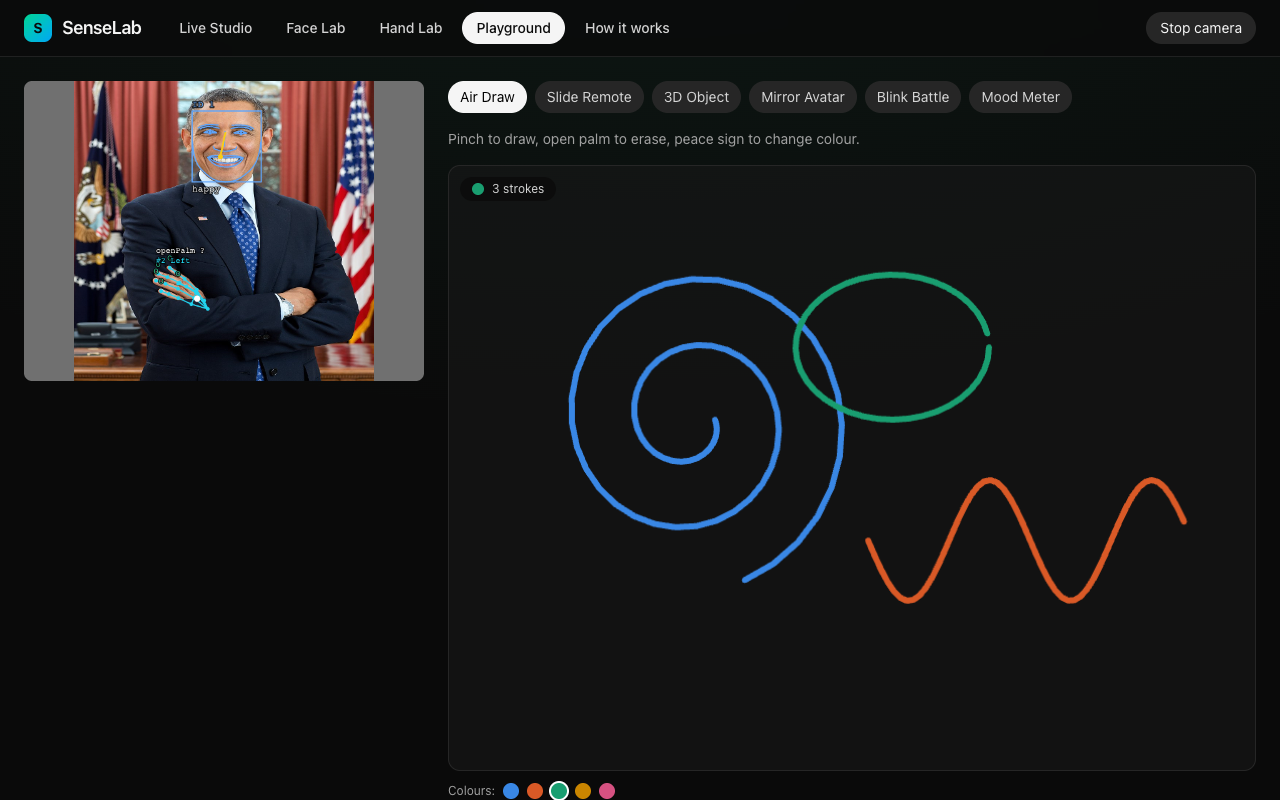
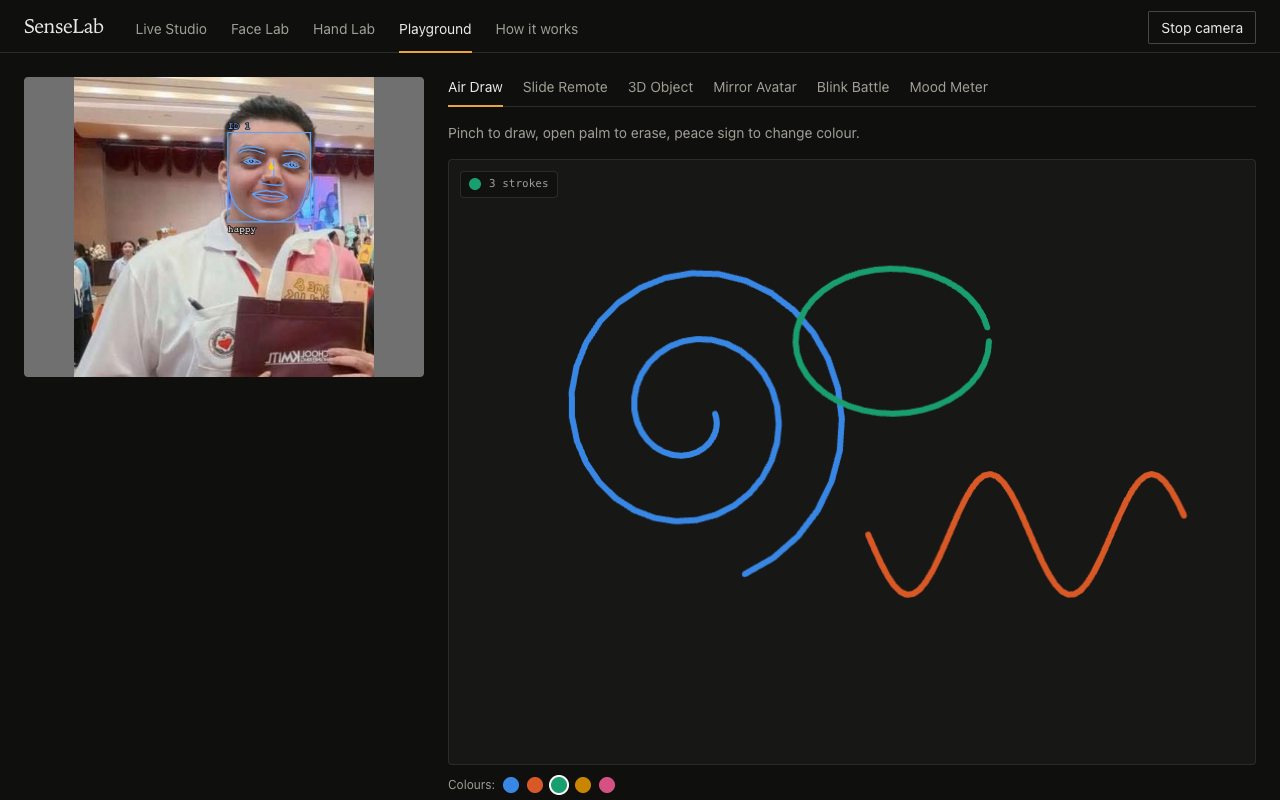
README: refresh screenshots and Slide Remote GIF for the new UI
- Regenerate Live Studio, Face Lab, Air Draw, 3D, Mood and Avatar images (fake camera shows the author's photo)
- Slide Remote GIF recorded with keyboard input; captions say so
- Drop the stale Hand Lab screenshot until there is an open-hand photo
- Add tests/e2e/docsAuthor.spec.ts to regenerate them

diff --git a/tests/e2e/docsAuthor.spec.ts b/tests/e2e/docsAuthor.spec.ts
@@ -1,0 +1,176 @@
+import { execFileSync } from 'node:child_process';
+import { test } from '@playwright/test';
+import type { Locator, Page } from '@playwright/test';
+import { call, installFakeCamera, waitModels } from './fakeCamera';
+
+// Makes most of the README images (see the README). Only runs when DOCS_DIR and FACE_FIXTURES are set:
+//   DOCS_DIR=docs FACE_FIXTURES=/folder-with-portrait.jpg CHROME=1 npx playwright test docsAuthor
+const out = process.env.DOCS_DIR;
+const dir = process.env.FACE_FIXTURES;
+test.skip(!out || !dir, 'set DOCS_DIR and FACE_FIXTURES');
+test.use({
+  viewport: { width: 1280, height: 800 },
+  video: { mode: 'on', size: { width: 1280, height: 800 } },
+});
+const shot = (page: Page, name: string) =>
+  page.screenshot({ path: `${out}/screenshots/${name}.png` });
+
+async function gif(
+  page: Page,
+  box: Locator,
+  startSec: number,
+  lengthSec: number,
+  out: string,
+  width: number,
+) {
+  const b = (await box.boundingBox())!;
+  await page.close();
+  const video = await page.video()!.path();
+  const even = (n: number) => Math.floor(n / 2) * 2;
+  const vf = `crop=${even(b.width)}:${even(b.height)}:${even(b.x)}:${even(b.y)},fps=10,scale=${width}:-1:flags=lanczos,split[a][b];[a]palettegen=max_colors=96[p];[b][p]paletteuse=dither=bayer:bayer_scale=4`;
+  execFileSync('ffmpeg', [
+    '-y',
+    '-loglevel',
+    'error',
+    '-ss',
+    String(startSec),
+    '-t',
+    String(lengthSec),
+    '-i',
+    video,
+    '-vf',
+    vf,
+    '-loop',
+    '0',
+    out,
+  ]);
+}
+
+test('screenshots', async ({ page }) => {
+  test.setTimeout(180_000);
+  await installFakeCamera(page, dir!, ['portrait']);
+  await page.goto('/');
+  await page.getByRole('checkbox').check();
+  await page.getByRole('button', { name: 'Start camera' }).click();
+  await call(page, '__show', 'portrait');
+  await waitModels(page);
+  await page.waitForTimeout(3500);
+  await shot(page, 'live-studio');
+  await page.getByRole('button', { name: 'Face Lab', exact: true }).click();
+  await page.waitForTimeout(1800);
+  await shot(page, 'face-lab');
+  await page.getByRole('button', { name: 'Playground', exact: true }).click();
+  await page.getByTestId('demo-tab-mirror-avatar').click();
+  await page.waitForTimeout(2500);
+  await shot(page, 'playground-avatar');
+  await page.getByTestId('demo-tab-air-draw').click();
+  const sim = (p?: unknown) =>
+    page.evaluate(
+      (x) =>
+        (
+          window as never as { __senselab: { simulate: (a?: unknown) => void } }
+        ).__senselab.simulate(x),
+      p,
+    );
+  const hand = (x: number, y: number, pinch: boolean) => ({
+    id: 1,
+    hand: 'Right',
+    gesture: null,
+    palmX: x * (4 / 3),
+    palmY: y,
+    palmLen: 0.18,
+    pinch: pinch ? { x: x * (4 / 3), y, dragging: true } : null,
+  });
+  const bus = (n: string) =>
+    page.evaluate(
+      (id) =>
+        (
+          window as never as { __senselab: { bus: { emit: (a: string, b: unknown) => void } } }
+        ).__senselab.bus.emit(`gesture:${id}`, {
+          id,
+          kind: 'start',
+          handId: 1,
+          hand: 'Right',
+          confidence: 1,
+          t: 0,
+        }),
+      n,
+    );
+  const stroke = async (pts: [number, number][]) => {
+    for (const [x, y] of pts) {
+      await sim({ hands: [hand(x, y, true)] });
+      await page.waitForTimeout(25);
+    }
+    await sim({ hands: [hand(0.5, 0.5, false)] });
+    await page.waitForTimeout(150);
+  };
+  await stroke(
+    Array.from({ length: 70 }, (_, i): [number, number] => [
+      0.3 + Math.cos(i / 5) * (0.03 + i * 0.0025),
+      0.42 + Math.sin(i / 5) * (0.04 + i * 0.0035),
+    ]),
+  );
+  await bus('peace');
+  await stroke(
+    Array.from({ length: 50 }, (_, i): [number, number] => [
+      0.52 + i * 0.008,
+      0.62 + Math.sin(i / 4) * 0.1,
+    ]),
+  );
+  await bus('peace');
+  await stroke(
+    Array.from({ length: 40 }, (_, i): [number, number] => [
+      0.55 + Math.cos(i / 6.4) * 0.12,
+      0.3 + Math.sin(i / 6.4) * 0.12,
+    ]),
+  );
+  await page.waitForTimeout(300);
+  await shot(page, 'playground-air-draw');
+  await sim();
+  await page.getByTestId('demo-tab-object-3d').click();
+  await page.waitForTimeout(800);
+  await sim({ twoHand: { engaged: true, scale: 1.6, deg: 40 } });
+  await page.waitForTimeout(1200);
+  await shot(page, 'playground-3d');
+  await sim();
+  await page.getByTestId('demo-tab-mood-meter').click();
+  await call(page, '__show', 'portrait');
+  await page.waitForTimeout(16_000);
+  await shot(page, 'playground-mood');
+});
+
+test('GIF: Slide Remote', async ({ page }) => {
+  test.setTimeout(120_000);
+  const born = Date.now();
+  await installFakeCamera(page, dir!, ['portrait']);
+  await page.goto('/');
+  await page.getByRole('checkbox').check();
+  await page.getByRole('button', { name: 'Start camera' }).click();
+  await page.getByRole('button', { name: 'Playground', exact: true }).click();
+  await page.getByTestId('demo-tab-slide-remote').click();
+  await page.waitForTimeout(1500);
+  const panel = page
+    .getByTestId('slide')
+    .locator('xpath=ancestor::div[contains(@class,"overflow-hidden")]')
+    .first();
+  const t0 = Date.now();
+  for (const [key, ms] of [
+    ['ArrowRight', 1300],
+    ['ArrowRight', 1300],
+    ['ArrowRight', 1300],
+    ['ArrowLeft', 1300],
+    ['l', 1500],
+  ] as const) {
+    await page.keyboard.press(key);
+    await page.waitForTimeout(ms);
+  }
+  const total = (Date.now() - t0) / 1000;
+  await gif(
+    page,
+    panel,
+    Math.max(0, (t0 - born) / 1000 - 0.4),
+    total + 0.6,
+    `${out}/slide-remote.gif`,
+    520,
+  );
+});

diff --git a/README.md b/README.md
@@ -53,16 +53,16 @@ Everything runs in a Web Worker in your browser, and the page never uploads a fr
 
 ## Screenshots and demos
 
-|                                                                                                                     |                                                                                                    |
-| ------------------------------------------------------------------------------------------------------------------- | -------------------------------------------------------------------------------------------------- |
-| ![Slide Remote driven by a real swipe](docs/slide-remote.gif)                                                       | ![Mirror Avatar copying expressions](docs/mirror-avatar.gif)                                       |
-| **Slide Remote.** A hand photo slides across a fake camera; the real hand model reports a swipe, the slide changes. | **Mirror Avatar.** The cartoon copies smile, blinks, brows and head turn from the real face model. |
-| ![Air Draw](docs/screenshots/playground-air-draw.png)                                                               | ![3D Object](docs/screenshots/playground-3d.png)                                                   |
-| **Air Draw** (strokes made with simulated pinch input: there is no pinch photo to feed the camera).                 | **3D Object** at 1.6x and 40 degrees, from simulated two-hand input.                               |
-| ![Face Lab](docs/screenshots/face-lab.png)                                                                          | ![Hand Lab](docs/screenshots/hand-lab.png)                                                         |
-| **Face Lab:** expression meter, blinks, gaze arrow, charts, registration.                                           | **Hand Lab:** finger states and a gesture timeline.                                                |
-| ![Mood Meter](docs/screenshots/playground-mood.png)                                                                 | ![How it works](docs/screenshots/how-it-works.png)                                                 |
-| **Mood Meter:** a live chart of everyone's expressions.                                                             | **How it works:** diagram and live timings.                                                        |
+|                                                                                                                           |                                                                                                    |
+| ------------------------------------------------------------------------------------------------------------------------- | -------------------------------------------------------------------------------------------------- |
+| ![Slide Remote changing slides](docs/slide-remote.gif)                                                                    | ![Mirror Avatar copying expressions](docs/mirror-avatar.gif)                                       |
+| **Slide Remote.** Next, previous and like, here driven with the keyboard. A swipe or thumbs up triggers the same actions. | **Mirror Avatar.** The cartoon copies smile, blinks, brows and head turn from the real face model. |
+| ![Air Draw](docs/screenshots/playground-air-draw.png)                                                                     | ![3D Object](docs/screenshots/playground-3d.png)                                                   |
+| **Air Draw** (strokes made with simulated pinch input: there is no pinch photo to feed the camera).                       | **3D Object** at 1.6x and 40 degrees, from simulated two-hand input.                               |
+| ![Face Lab](docs/screenshots/face-lab.png)                                                                                | ![Welcome](docs/screenshots/welcome.png)                                                           |
+| **Face Lab:** expression meter, blinks, gaze arrow, charts, registration.                                                 | **Welcome:** the consent page, before the camera starts.                                           |
+| ![Mood Meter](docs/screenshots/playground-mood.png)                                                                       | ![How it works](docs/screenshots/how-it-works.png)                                                 |
+| **Mood Meter:** a live chart of everyone's expressions.                                                                   | **How it works:** diagram and live timings.                                                        |
 
 <details>
 <summary><b>Try each demo (click to expand)</b></summary>
@@ -79,19 +79,19 @@ Everything runs in a Web Worker in your browser, and the page never uploads a fr
 </details>
 
 <details>
-<summary><b>Welcome and consent screen</b></summary>
+<summary><b>More: the Mirror Avatar page</b></summary>
 
-The camera never starts until you tick the consent box.
-
-![Welcome and consent](docs/screenshots/welcome.png)
+The cartoon follows the face model's blendshapes and head pose; the camera is on the left.
 
 ![Mirror Avatar](docs/screenshots/playground-avatar.png)
 
 </details>
 
-These images are made by `tests/e2e/docs.spec.ts` from a fake camera that shows a public-domain official portrait and
-MediaPipe's sample hand photo, so the whole thing is reproducible (`DOCS_DIR=docs FACE_FIXTURES=... npx playwright test docs`).
-The GIFs are cropped to the demo panels. A screenshot is not a measurement: see "How accurate is it" below.
+The Live Studio, Face Lab, Air Draw, 3D Object, Mood Meter and Avatar images are made by `tests/e2e/docsAuthor.spec.ts`
+(`DOCS_DIR=docs FACE_FIXTURES=/folder npx playwright test docsAuthor`, where the folder holds a `portrait.jpg`): a fake camera
+shows the author's own photo. Air Draw and 3D Object use simulated hand input, and the Slide Remote GIF is recorded with
+keyboard input. There is no Hand Lab screenshot yet: it needs a photo of an open hand. The GIFs are cropped to the demo
+panels. A screenshot is not a measurement: see "How accurate is it" below.
 
 ## Gesture cheat sheet
 
@@ -629,6 +629,6 @@ The `__senselab` test hook (used to simulate input and read model state) exists 
 ## Credits and licenses
 
 MediaPipe (Apache-2.0), onnxruntime-web (MIT), SFace from the OpenCV Zoo (Apache-2.0, see above before commercial use),
-Three.js, Framer Motion, React, Zustand, Tailwind CSS, Vite, Vitest, Playwright (all MIT), idb (ISC). The README images use
-the official White House portrait of a former US president (a US government work, public domain) and MediaPipe's sample
-hand photos. Photos used to measure accuracy (LFW, AffectNet, CK+) are not in this repository.
+Three.js, Framer Motion, React, Zustand, Tailwind CSS, Vite, Vitest, Playwright (all MIT), idb (ISC). The README screenshots use the author's own photo as the fake camera input. The test clip
+(`tests/fixtures/clip-face.mjpeg`) is made from the official portrait of a former US president (a US government work, public
+domain). Photos used to measure accuracy (LFW, AffectNet, CK+) are not in this repository.
